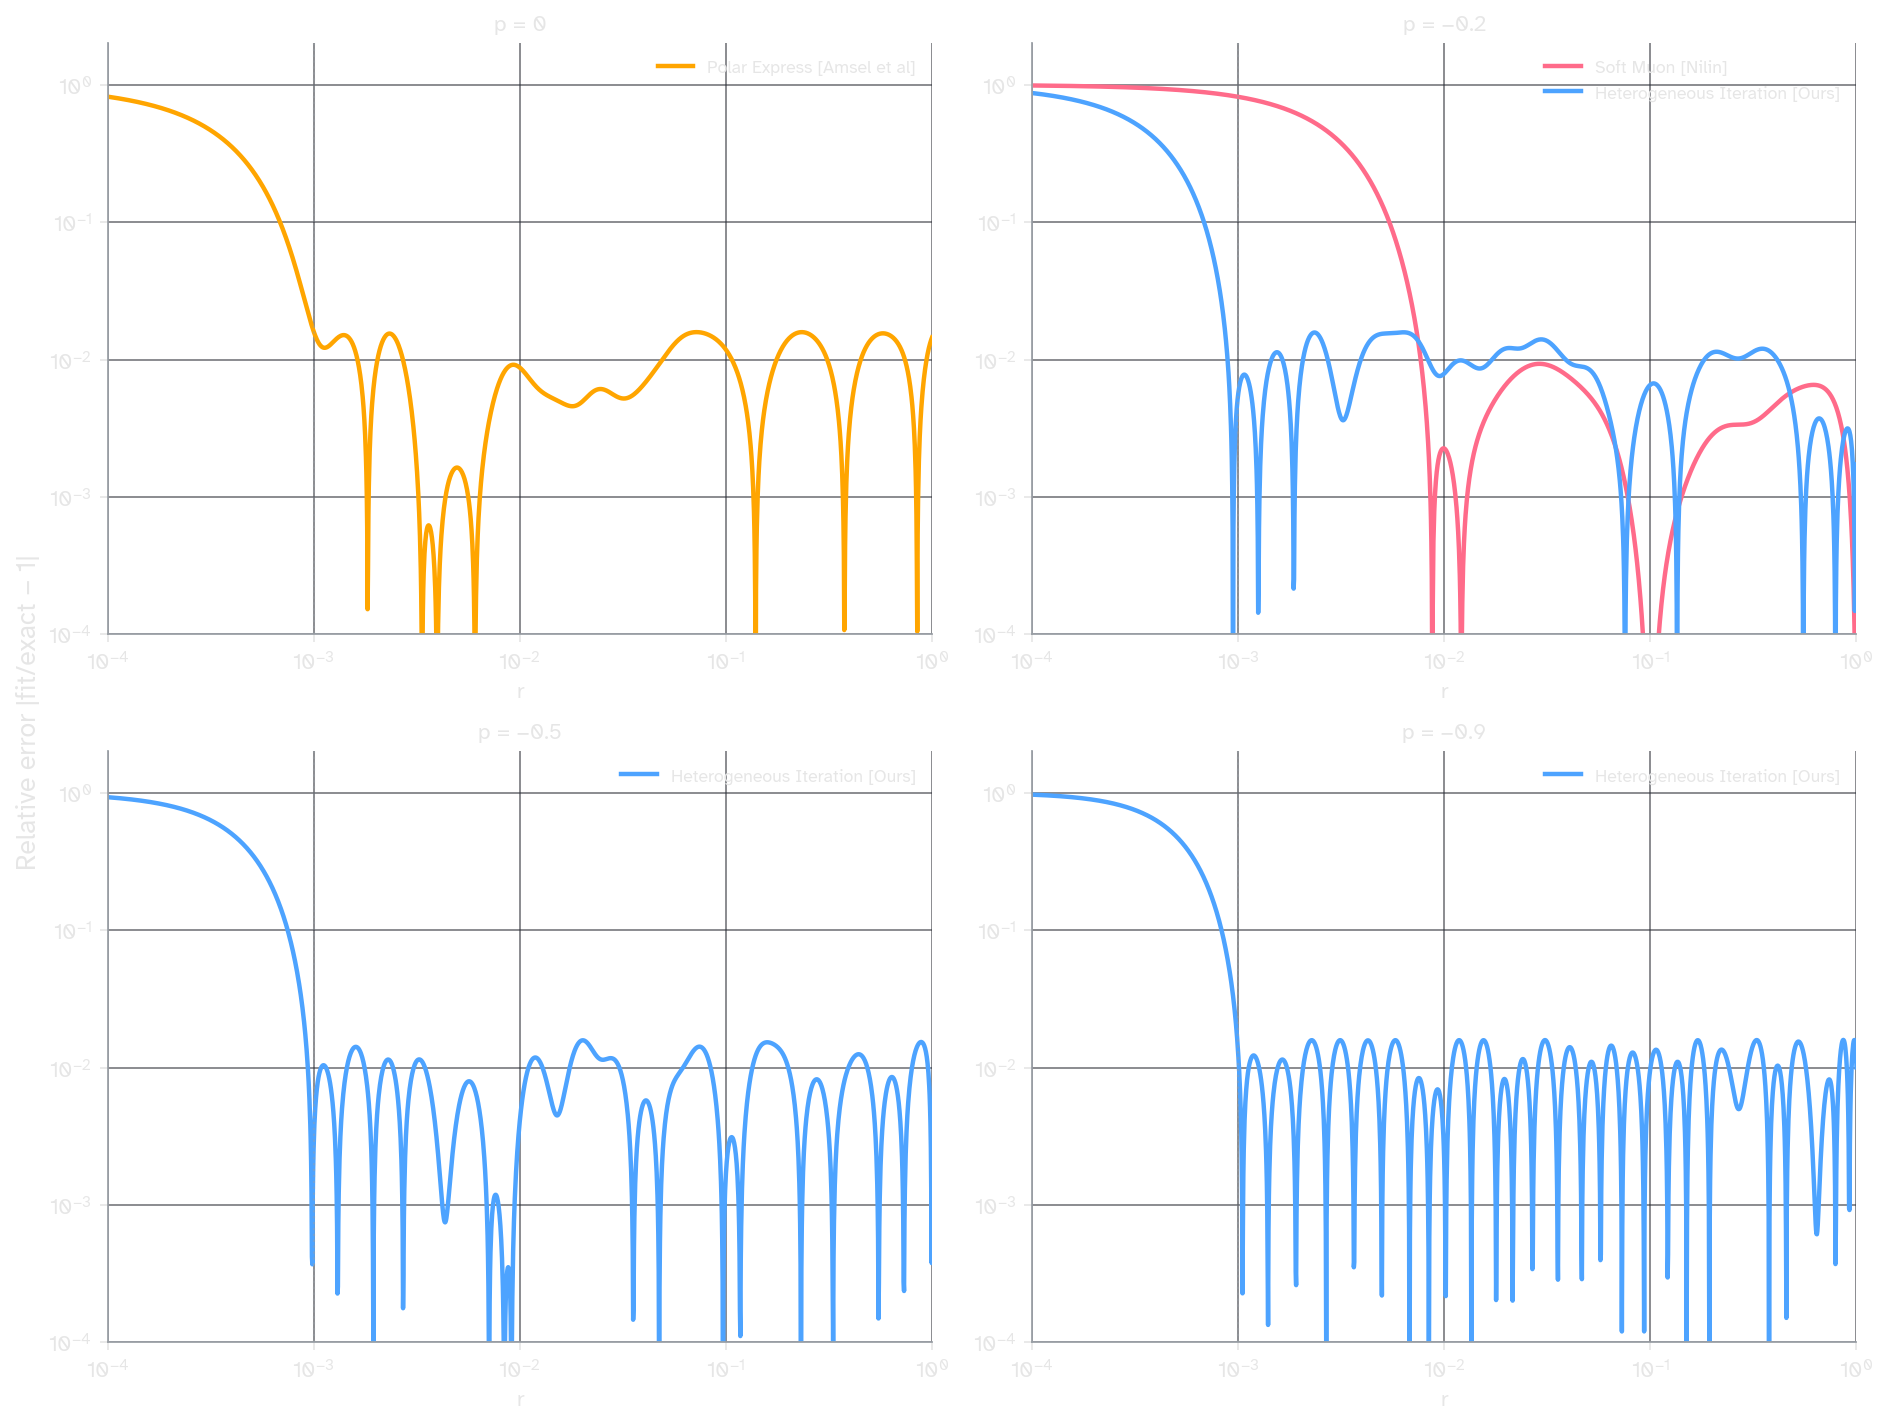
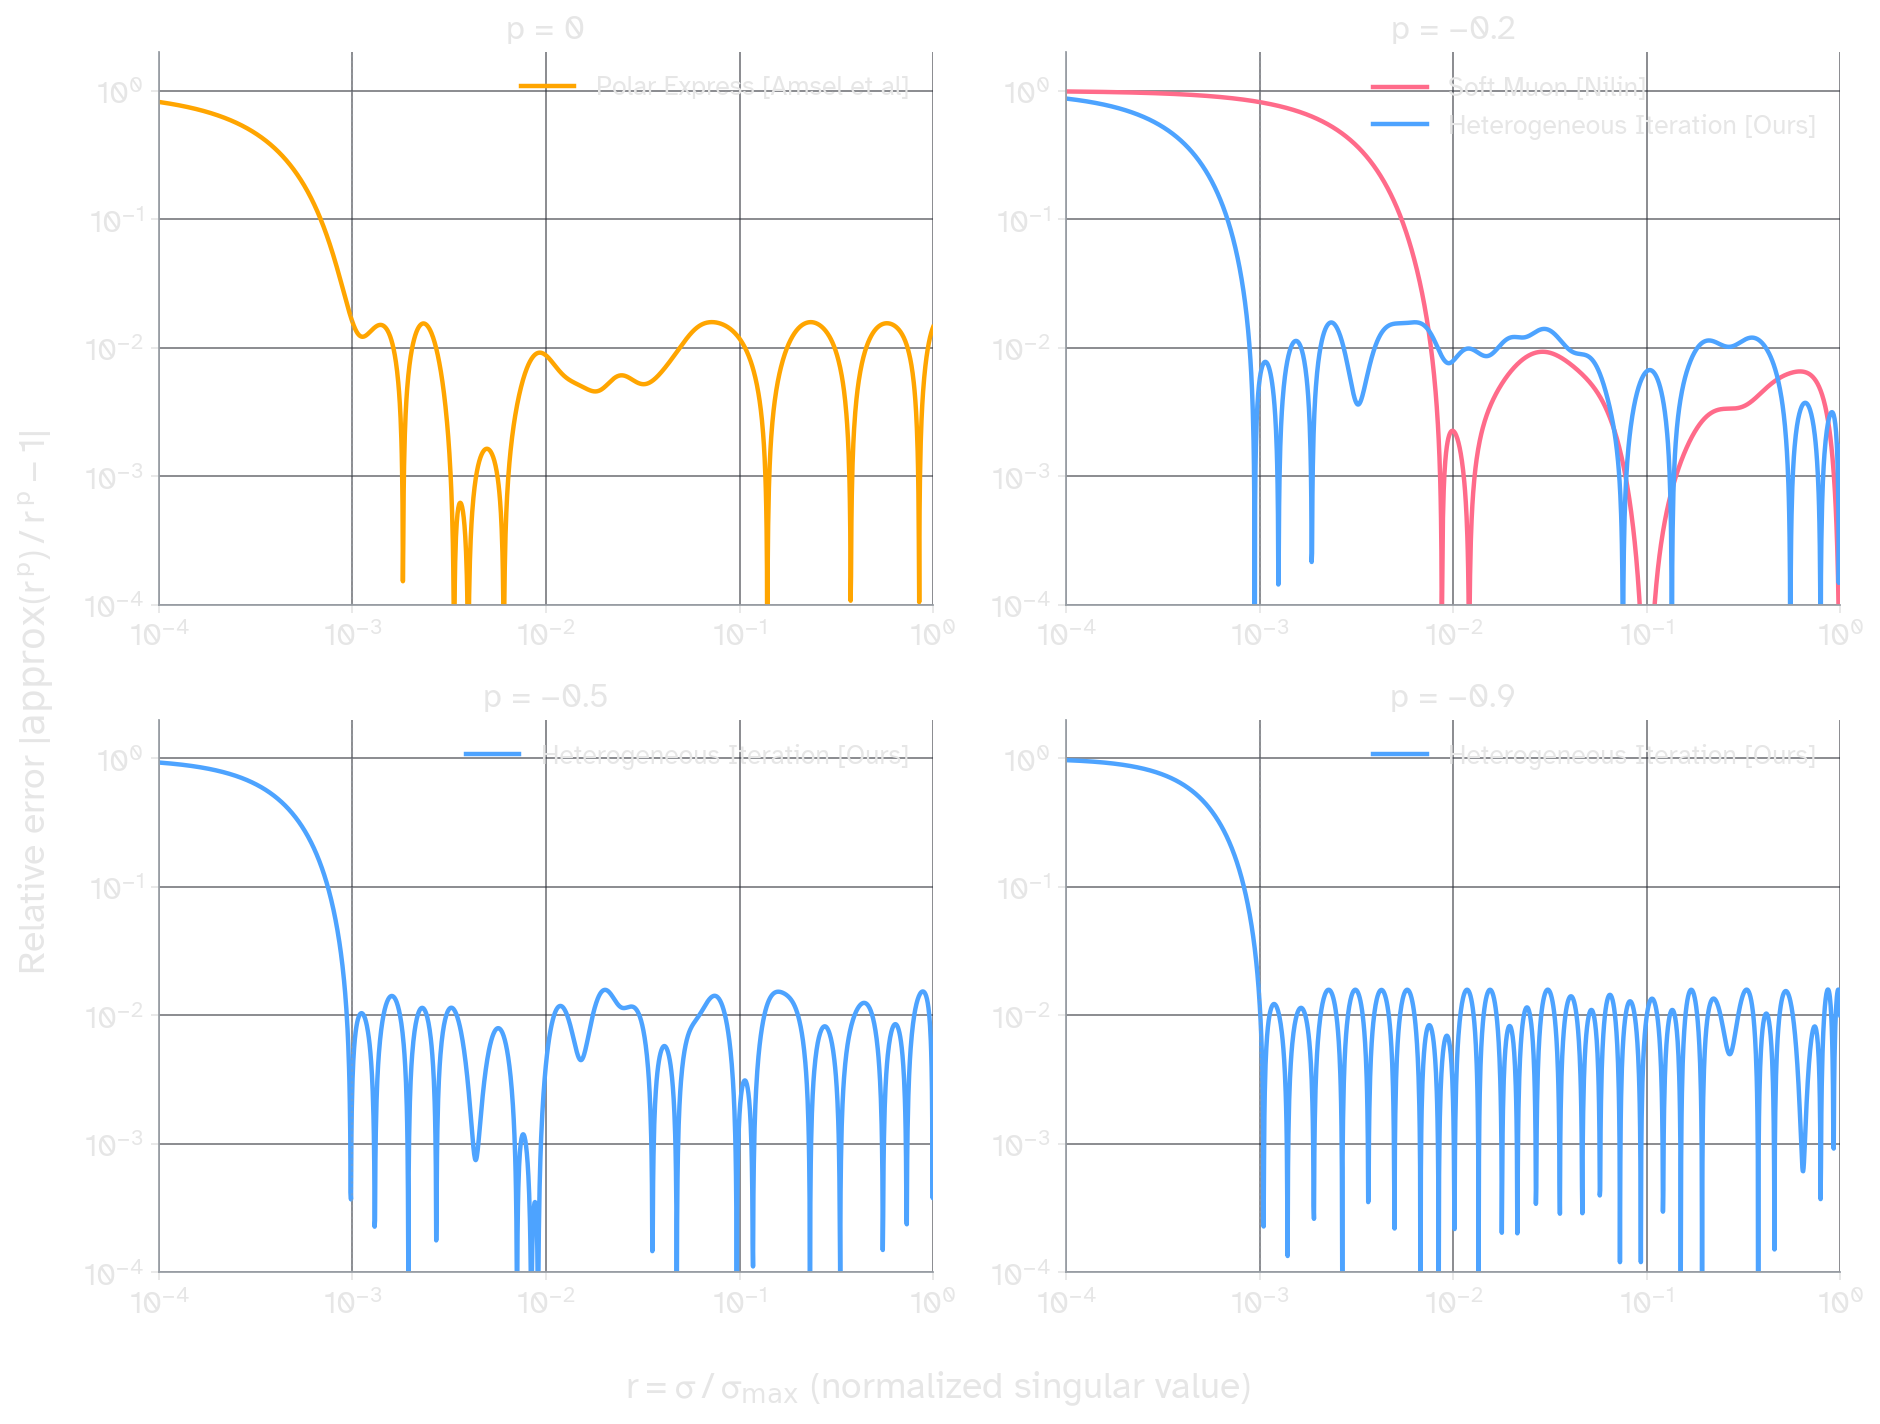
bigger fonts on images

diff --git a/content/Essays/Power Iteration.md b/content/Essays/Power Iteration.md
@@ -19,7 +19,7 @@ type: technical
 
 **Figure 1: For any singular value $\sigma \in [0.001, 1]$ we achieve error no worse than $1.65\%$.** 
 
-Let's consider a matrix $M = U \Sigma V^\top$. The [[Muon in Modded NanoGPT|Muon]] optimizer[^muon] uses several polynomial iterations of $M$ in order to approximate $UV^\top.$ This can be seen as a special case ($p=0$) of the family $U\Sigma^pV^\top$ for arbitrary powers $p$. The full family turns out to be useful, with $p=-1/2, -1/4$ being used in Shampoo/SOAP[^klsoap][^anil][^gupta][^vyas] and $p \in [-0.5, 0.5]$ showing promise in Muon-variants[^nilin][^dynmuon][^htmuon][^qdwh]. 
+Let's consider a matrix $M = U \Sigma V^\top$. The [[Muon]] optimizer[^muon] uses several polynomial iterations of $M$ in order to approximate $UV^\top.$ This can be seen as a special case ($p=0$) of the family $U\Sigma^pV^\top$ for arbitrary powers $p$. The full family turns out to be useful, with $p=-1/2, -1/4$ being used in Shampoo/SOAP[^klsoap][^anil][^gupta][^vyas] and $p \in [-0.5, 0.5]$ showing promise in Muon-variants[^nilin][^dynmuon][^htmuon][^qdwh]. 
 
 [^muon]: [Keller Jordan et al 2024](https://kellerjordan.github.io/posts/muon/) *Muon: An optimizer for hidden layers in neural networks*
 [^klsoap]: [Lin et al. 2025](https://arxiv.org/abs/2509.03378) *Understanding and Improving Shampoo and SOAP via Kullback-Leibler Minimization*
